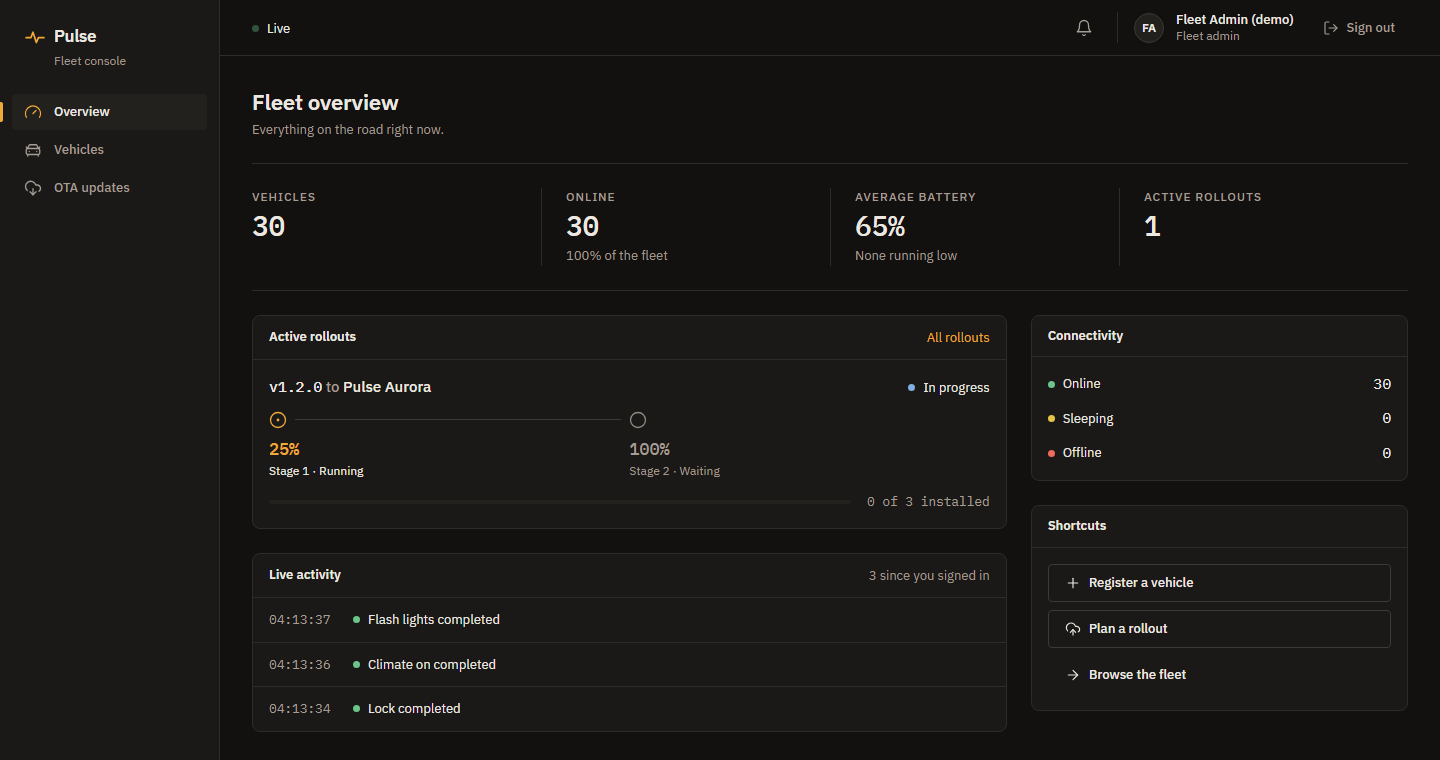
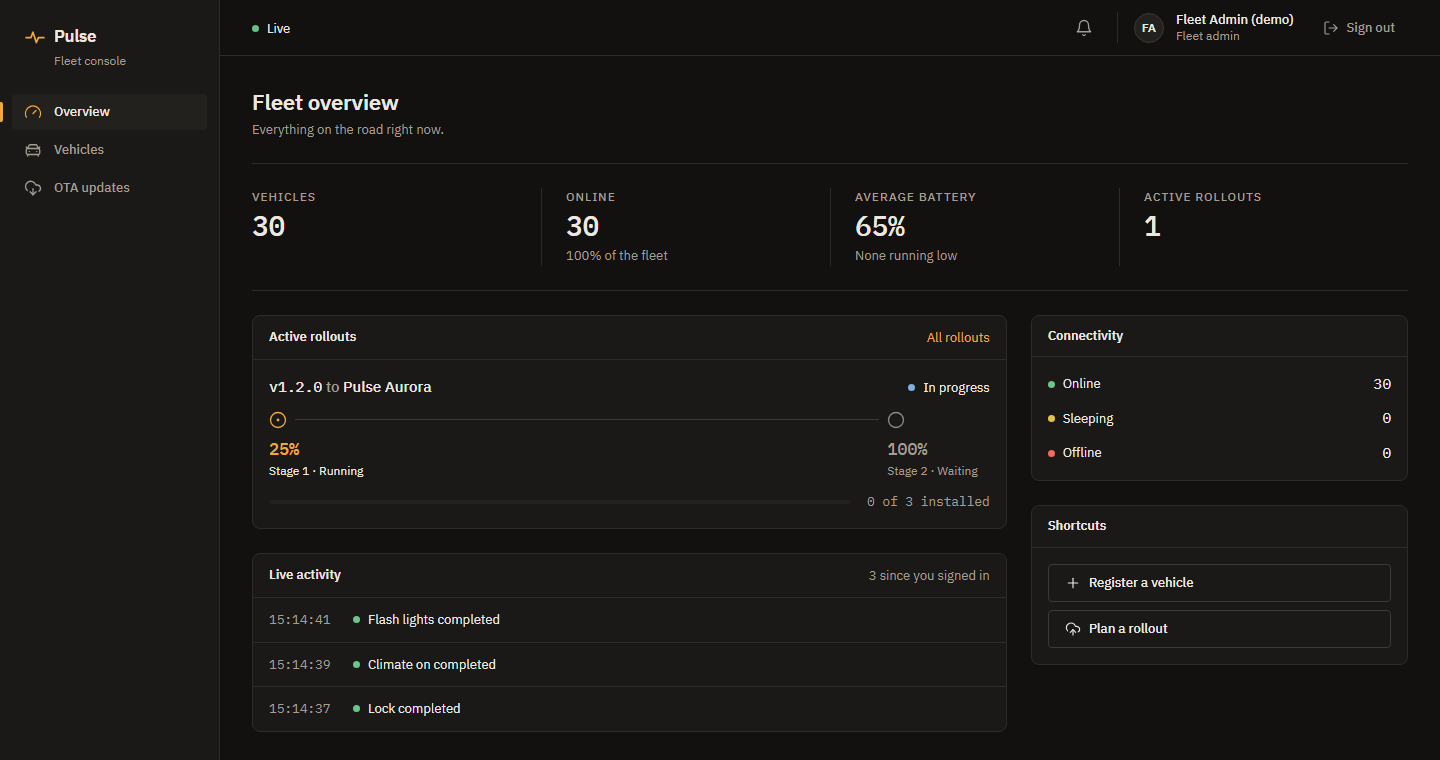
fix(dashboard): full bar for a rollout that targeted nobody; re-capture media
A rollout whose vehicles were all up to date completes with 0 targeted and
showed '100% finished' next to an empty bar. campaignBar() gives the
installed and failed segments and treats that case as fully installed.
README screenshot and GIF re-captured after the review fixes.

diff --git a/pulse-dashboard/src/pages/RolloutListPage.tsx b/pulse-dashboard/src/pages/RolloutListPage.tsx
@@ -11,7 +11,7 @@ import { otaApi, vehicleApi } from '../api/endpoints';
 import type { Campaign, SoftwareVersion } from '../api/types';
 import { useTopic } from '../context/live';
 import { useAsync } from '../hooks/useAsync';
-import { campaignTone, label, timeAgo, upsertById } from '../utils/format';
+import { campaignBar, campaignTone, label, timeAgo, upsertById } from '../utils/format';
 import styles from './RolloutListPage.module.css';
 
 function NewVersionForm({ onCreated }: { onCreated: (v: SoftwareVersion) => void }) {
@@ -116,11 +116,6 @@ function NewRolloutForm({ onCreated }: { onCreated: (c: Campaign) => void }) {
   );
 }
 
-/** A count as a share of the campaign's targeted vehicles, in percent. */
-function share(c: Campaign, n: number): number {
-  return c.totalVehiclesTargeted ? (n / c.totalVehiclesTargeted) * 100 : 0;
-}
-
 export default function RolloutListPage() {
   const [showForm, setShowForm] = useState(false);
   const campaigns = useAsync(otaApi.campaigns, []);
@@ -162,7 +157,7 @@ export default function RolloutListPage() {
                   <td>
                     <div className={styles.progress}>
                       <ProgressBar size="sm" label={`Rollout ${c.softwareVersion.versionLabel} progress`}
-                                   value={share(c, c.vehiclesInstalled)} failed={share(c, c.vehiclesFailed)}
+                                   value={campaignBar(c).installed} failed={campaignBar(c).failed}
                                    tone={c.status === 'COMPLETED' ? 'ok' : 'accent'} />
                       <span className="mono muted">{c.vehiclesInstalled}/{c.totalVehiclesTargeted}</span>
                     </div>

diff --git a/pulse-dashboard/src/pages/RolloutDetailPage.tsx b/pulse-dashboard/src/pages/RolloutDetailPage.tsx
@@ -14,7 +14,7 @@ import { otaApi } from '../api/endpoints';
 import type { Campaign, CampaignStatus } from '../api/types';
 import { useTopic } from '../context/live';
 import { useAsync } from '../hooks/useAsync';
-import { campaignProgress, campaignTone, dateTime, label, updateTone } from '../utils/format';
+import { campaignBar, campaignProgress, campaignTone, dateTime, label, updateTone } from '../utils/format';
 import styles from './RolloutDetailPage.module.css';
 
 type Action = 'start' | 'pause' | 'resume' | 'abort';
@@ -66,7 +66,6 @@ export default function RolloutDetailPage() {
   const failureRate = c.totalVehiclesTargeted ? (c.vehiclesFailed / c.totalVehiclesTargeted) * 100 : 0;
   const overThreshold = failureRate > c.failureThresholdPercent;
   const progress = campaignProgress(c);
-  const share = (n: number) => (c.totalVehiclesTargeted ? (n / c.totalVehiclesTargeted) * 100 : 0);
 
   return (
     <div>
@@ -95,7 +94,7 @@ export default function RolloutDetailPage() {
         <div className={styles.progress}>
           <StageTrack stages={c.stages} currentStageIndex={c.currentStageIndex} campaignStatus={c.status} />
           <div className={styles.bar}>
-            <ProgressBar value={share(c.vehiclesInstalled)} failed={share(c.vehiclesFailed)} label="Rollout progress"
+            <ProgressBar value={campaignBar(c).installed} failed={campaignBar(c).failed} label="Rollout progress"
                          tone={c.status === 'COMPLETED' ? 'ok' : 'accent'} />
             <span className="mono">{progress}% finished</span>
           </div>

diff --git a/pulse-dashboard/src/pages/DashboardPage.tsx b/pulse-dashboard/src/pages/DashboardPage.tsx
@@ -13,13 +13,12 @@ import Status from '../components/Status';
 import { useAuth } from '../context/auth';
 import { useNotifications } from '../context/notifications';
 import { useAsync } from '../hooks/useAsync';
-import { campaignTone, clock, connectivityTone, label, notificationTone, num, timeAgo } from '../utils/format';
+import { campaignBar, campaignTone, clock, connectivityTone, label, notificationTone, num, timeAgo } from '../utils/format';
 import styles from './DashboardPage.module.css';
 
 const LOW_BATTERY = 20;
 
 function ActiveRollout({ campaign: c }: { campaign: Campaign }) {
-  const share = (n: number) => (c.totalVehiclesTargeted ? (n / c.totalVehiclesTargeted) * 100 : 0);
   return (
     <li className={styles.rollout}>
       <div className={styles.rolloutHead}>
@@ -32,7 +31,7 @@ function ActiveRollout({ campaign: c }: { campaign: Campaign }) {
       </div>
       <StageTrack stages={c.stages} currentStageIndex={c.currentStageIndex} campaignStatus={c.status} />
       <div className={styles.progressRow}>
-        <ProgressBar value={share(c.vehiclesInstalled)} failed={share(c.vehiclesFailed)} size="sm"
+        <ProgressBar value={campaignBar(c).installed} failed={campaignBar(c).failed} size="sm"
                      label={`Rollout ${c.softwareVersion.versionLabel} progress`} />
         <span className="mono muted">{c.vehiclesInstalled} of {c.totalVehiclesTargeted} installed</span>
       </div>

diff --git a/pulse-dashboard/src/utils/format.test.ts b/pulse-dashboard/src/utils/format.test.ts
@@ -1,6 +1,6 @@
 import { describe, expect, it } from 'vitest';
 import type { Campaign } from '../api/types';
-import { campaignProgress, label } from './format';
+import { campaignBar, campaignProgress, label } from './format';
 
 function campaign(overrides: Partial<Campaign>): Campaign {
   return {
@@ -31,5 +31,15 @@ describe('label', () => {
     expect(label('IN_PROGRESS')).toBe('In progress');
     expect(label('FLEET_ADMIN')).toBe('Fleet admin');
     expect(label('LOCK')).toBe('Lock');
+  });
+});
+
+describe('campaignBar', () => {
+  it('splits progress into installed and failed shares of the targeted vehicles', () => {
+    expect(campaignBar(campaign({ totalVehiclesTargeted: 12, vehiclesInstalled: 9, vehiclesFailed: 3 }))).toEqual({ installed: 75, failed: 25 });
+  });
+
+  it('shows a completed campaign that targeted nobody as fully installed', () => {
+    expect(campaignBar(campaign({ totalVehiclesTargeted: 0, status: 'COMPLETED' }))).toEqual({ installed: 100, failed: 0 });
   });
 });

diff --git a/pulse-dashboard/src/utils/format.ts b/pulse-dashboard/src/utils/format.ts
@@ -66,3 +66,15 @@ export const notificationTone: Record<Notification['type'], Tone> = {
 export function clock(date: Date): string {
   return date.toLocaleTimeString(undefined, { hour: '2-digit', minute: '2-digit', second: '2-digit', hour12: false });
 }
+
+/**
+ * The two segments of a campaign's progress bar, in percent: installed, then failed. A completed
+ * campaign that targeted nobody (every vehicle was already up to date) shows as fully installed.
+ */
+export function campaignBar(c: Campaign): { installed: number; failed: number } {
+  if (!c.totalVehiclesTargeted) return { installed: campaignProgress(c), failed: 0 };
+  return {
+    installed: (c.vehiclesInstalled / c.totalVehiclesTargeted) * 100,
+    failed: (c.vehiclesFailed / c.totalVehiclesTargeted) * 100,
+  };
+}
